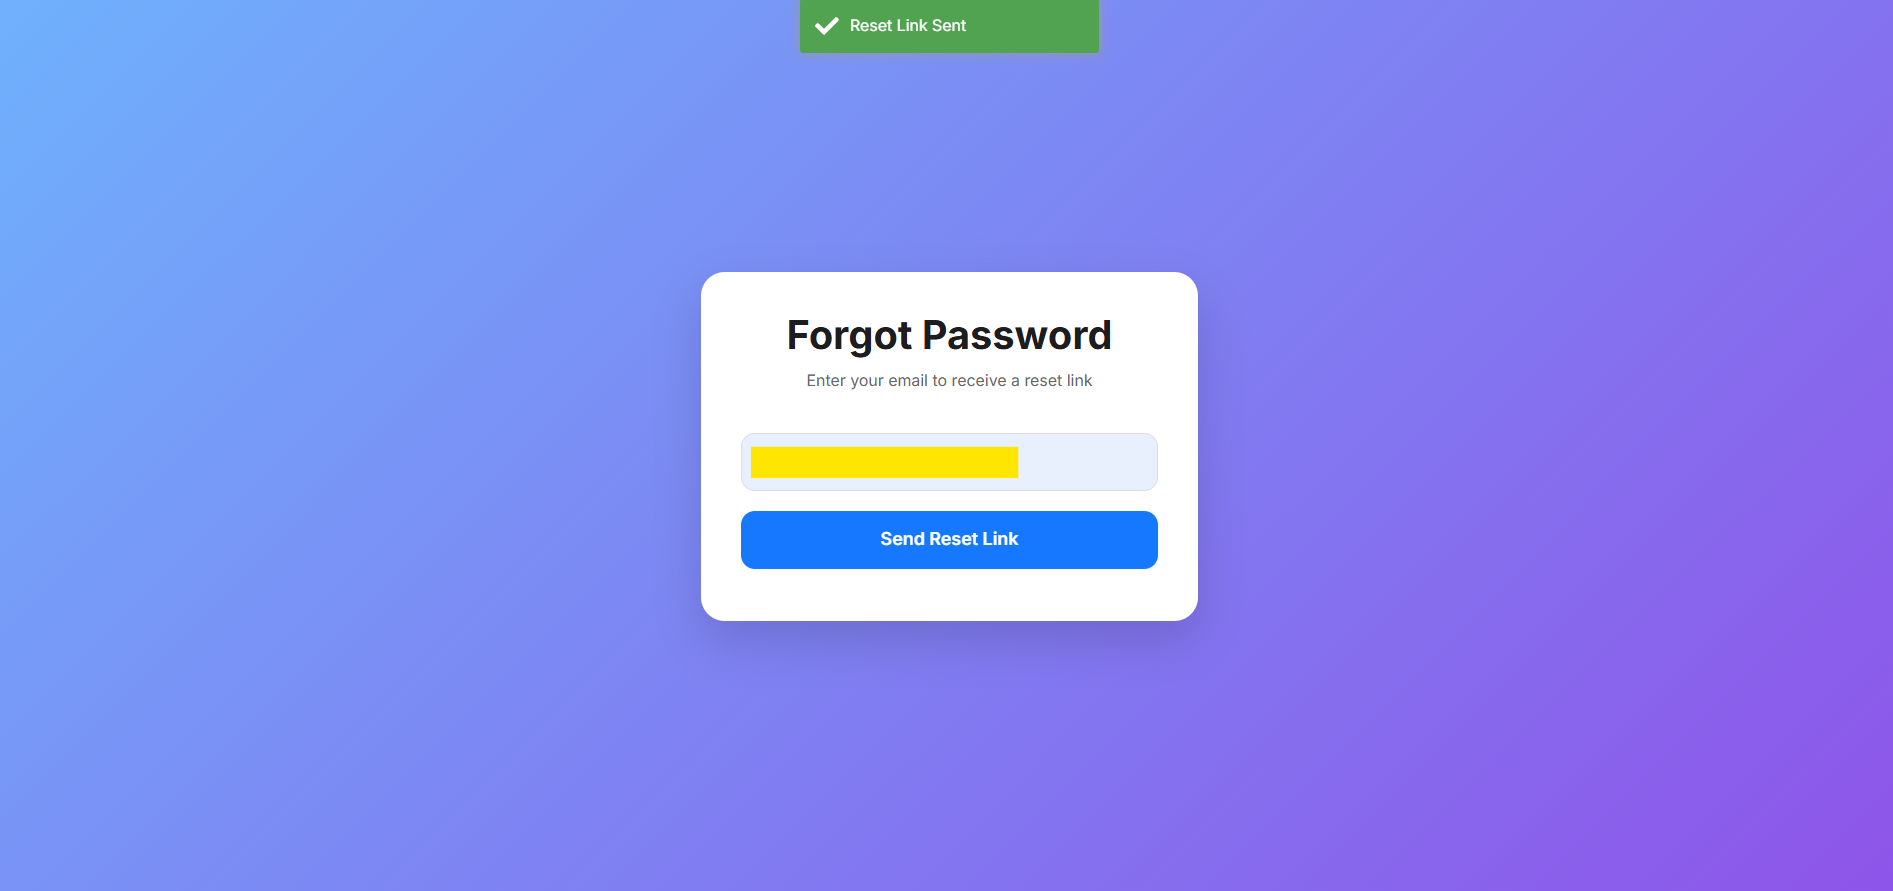
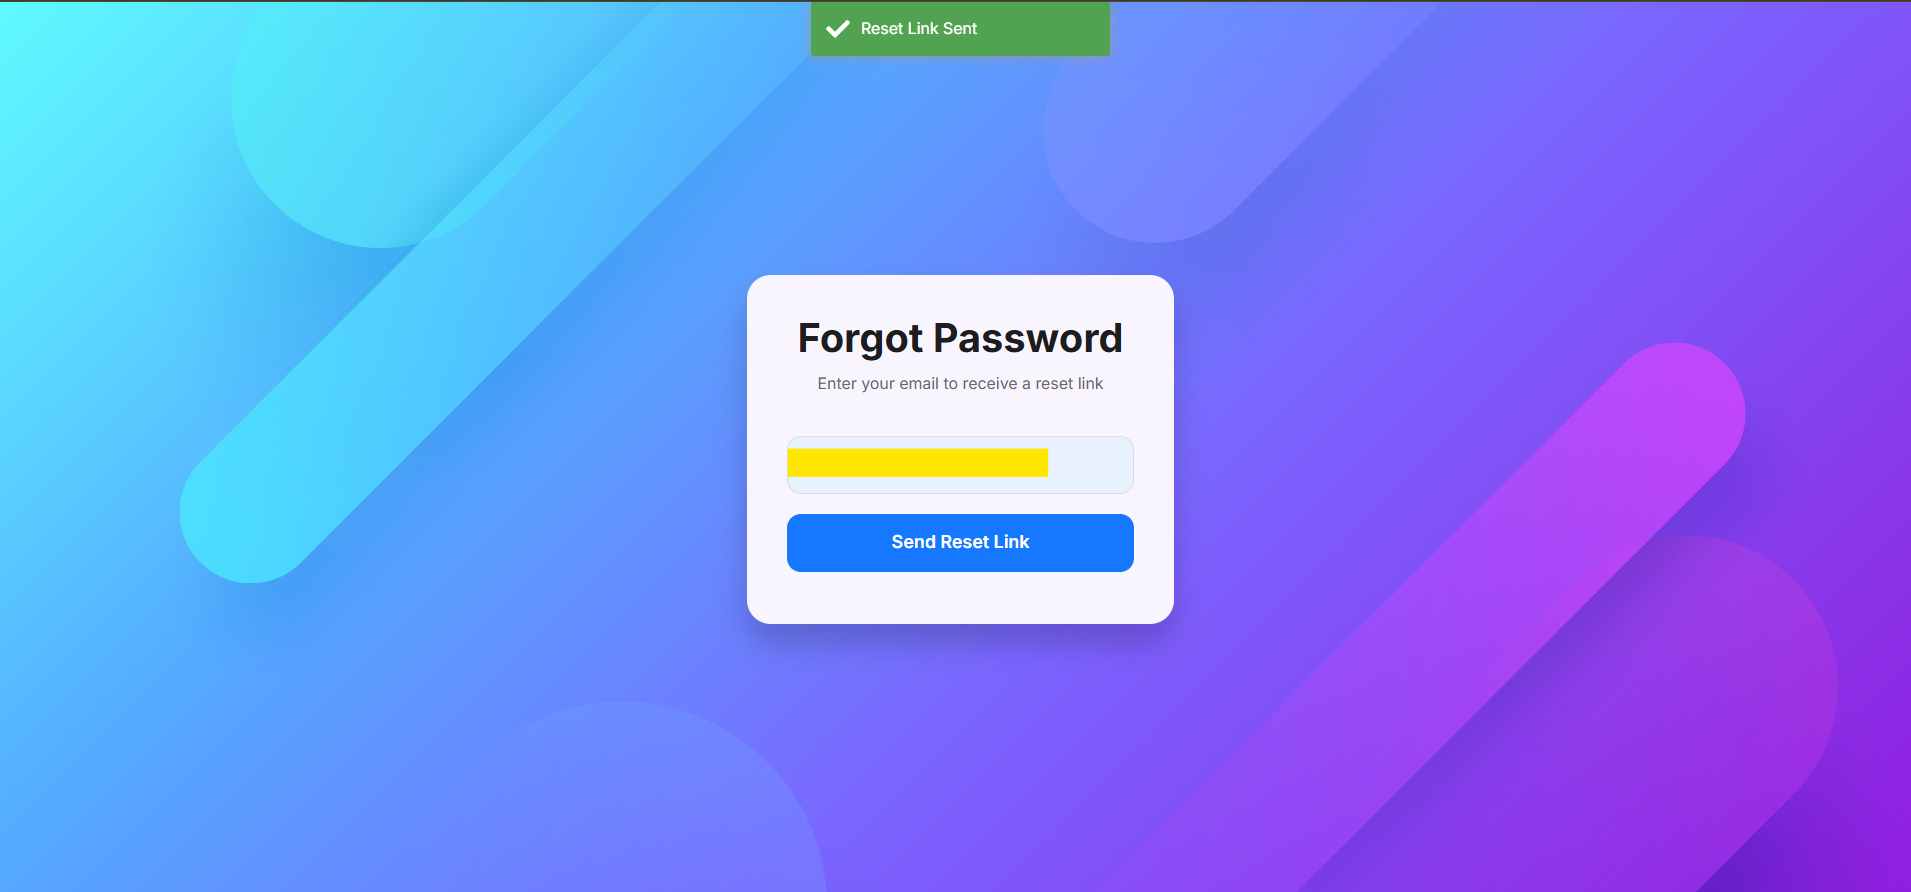
Added screenshots and updated README

diff --git a/frontend/src/app/auth/forgot-password/forgot-password.css b/frontend/src/app/auth/forgot-password/forgot-password.css
@@ -1,40 +1,3 @@
-.auth-wrapper{
-
-  min-height:100vh;
-
-  display:flex;
-
-  justify-content:center;
-
-  align-items:center;
-
-  background:
-  linear-gradient(
-    135deg,
-    #6fb1fc,
-    #8e54e9
-  );
-
-  padding:20px;
-}
-
-.auth-card{
-
-  width:100%;
-
-  max-width:500px;
-
-  background:white;
-
-  padding:40px;
-
-  border-radius:24px;
-
-  box-shadow:
-  0 20px 50px rgba(
-    0,0,0,.15
-  );
-}
 
 .title{
 